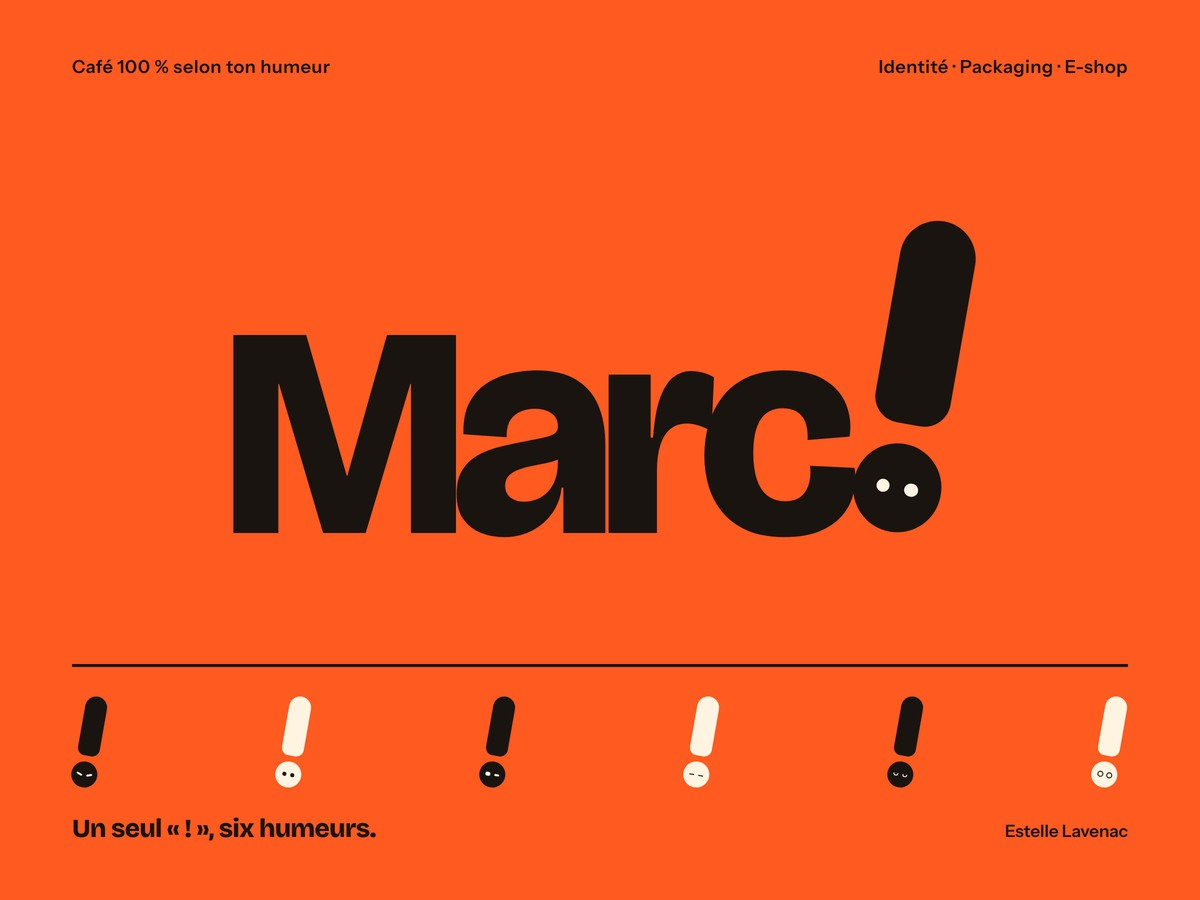
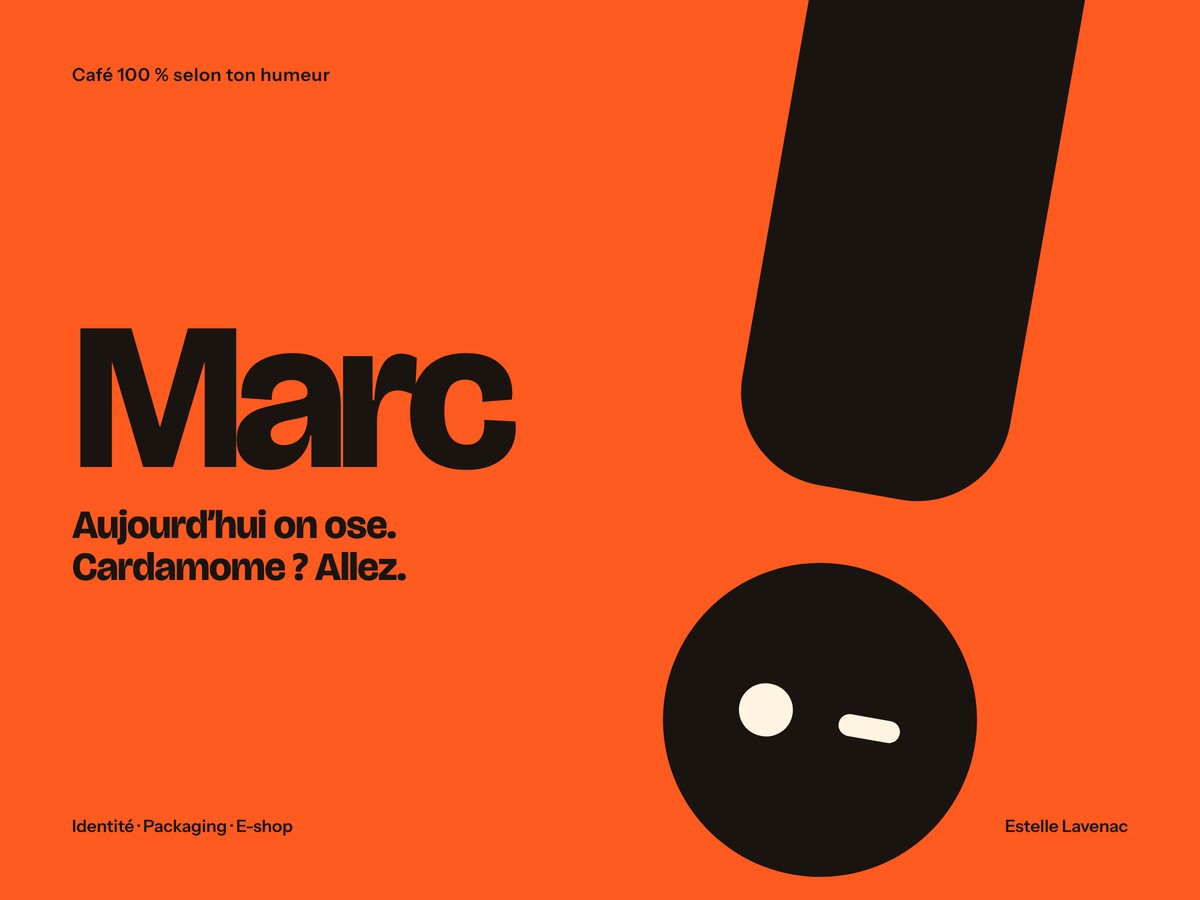
Marc ! : nouvelle miniature (le regard)
Claude-Session: https://claude.ai/code/session_01FptbL5UYkZJrF7f6Lqomnd

diff --git a/projects/marc.html b/projects/marc.html
@@ -17,7 +17,7 @@
 <meta property="og:image" content="https://estellelavenac.github.io/Estelle-Lavenac/book-assets/marc-01-cover.jpg">
 <meta property="og:image:width" content="1200">
 <meta property="og:image:height" content="900">
-<meta property="og:image:alt" content="Marc ! — le logo et les six regards du point d’exclamation, sur fond orange">
+<meta property="og:image:alt" content="Marc ! — un point d’exclamation géant qui fait un clin d’œil, sur fond orange">
 <meta name="twitter:card" content="summary_large_image">
 <meta name="twitter:title" content="Marc ! — Estelle Lavenac">
 <meta name="twitter:description" content="Marc ! — projet conceptuel : identité visuelle, packaging et site e-commerce pour une marque de café 100 % personnalisable selon l’humeur, par Estelle Lavenac.">
